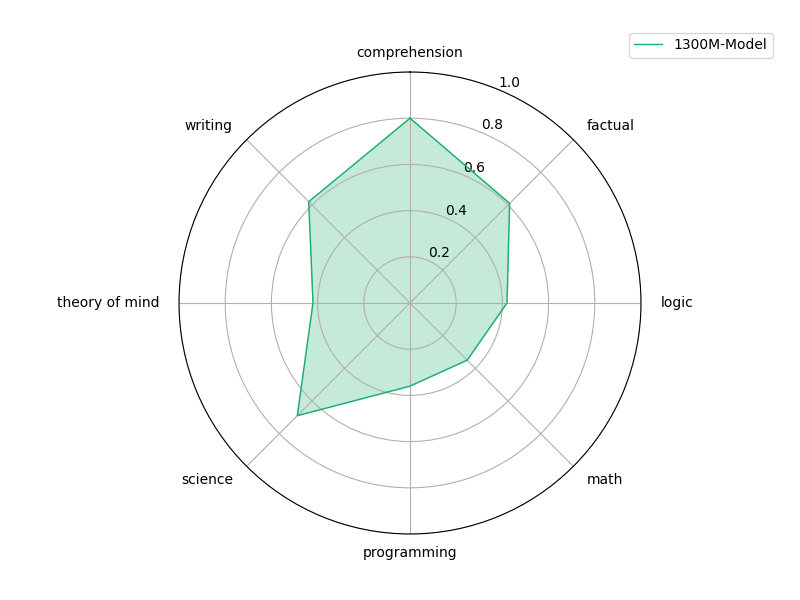
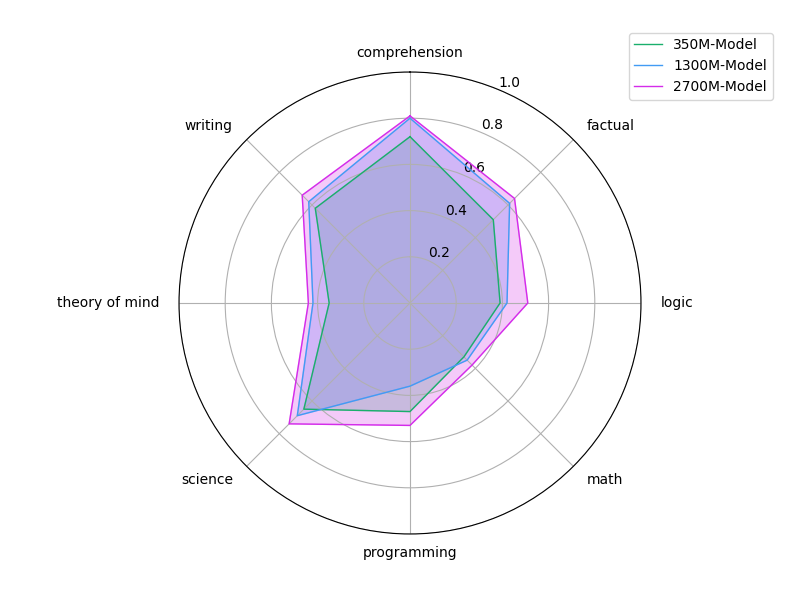
full lab (part 2 benchmark untested)

Changed region(s): [[0.3438, 0.18, 0.6875, 0.72], [0.7812, 0.06, 0.9688, 0.15]]

diff --git a/xtra_labs/llm_finetune/draft.py b/xtra_labs/llm_finetune/draft.py
@@ -1,11 +1,16 @@
 """
 Drafting lab flow in script format using PyTorch
 """
-
+from datasets import load_dataset
+import math
 import numpy as np
 import pandas as pd
 import tensorflow as tf
+import torch
+import torch.nn as nn
+import torch.nn.functional as F
 import transformers
+from trl import SFTTrainer
 
 from utils import run_benchmark, make_spider_plot
 
@@ -63,14 +68,14 @@ category_accs_1300m, avg_acc_1300m = run_benchmark(model, tokenizer, dataset)
 # Benchmark smaller model
 model_name_350m = "facebook/opt-350m" 
 model_350m = transformers.AutoModelForCausalLM.from_pretrained(model_name_350m, device_map="auto")
-tokenizer_350m = transformers.AutoTokenizer.from_pretrained(model_350m)
+tokenizer_350m = transformers.AutoTokenizer.from_pretrained(model_name_350m)
 
 category_accs_350m, avg_acc_350m = run_benchmark(model_350m, tokenizer_350m, dataset)
 
 # Benchmark larger model
 model_name_2700m = "facebook/opt-2.7b" 
 model_2700m = transformers.AutoModelForCausalLM.from_pretrained(model_name_2700m, device_map="auto")
-tokenizer_2700m = transformers.AutoTokenizer.from_pretrained(model_2700m)
+tokenizer_2700m = transformers.AutoTokenizer.from_pretrained(model_name_2700m)
 
 category_accs_2700m, avg_acc_2700m = run_benchmark(model_2700m, tokenizer_2700m, dataset)
 
@@ -81,16 +86,98 @@ make_spider_plot(benchmark_data)
 
 # Part 2
 
+# inspect current model
+print(model)
+
 # new LoRA linear layer class
+class LoRALinear(nn.Linear):
+    def __init__(
+            self, 
+            in_features: int,
+            out_features: int,
+            r: int = 8,
+            lora_alpha: int = 1,
+            **kwargs
+    ):
+        self.r = r
+        self.in_features = in_features
+        self.out_features = out_features
+        self.lora_alpha = lora_alpha
 
-# new attention layer class
+        nn.Linear.__init__(self, in_features, out_features, **kwargs)
 
-# replace attention modules with new module
+        # from https://github.com/microsoft/LoRA/blob/main/loralib/layers.py
+        if r > 0:
+            self.lora_A = nn.Parameter(self.weight.new_zeros((r, in_features)))
+            self.lora_B = nn.Parameter(self.weight.new_zeros((out_features, r)))
+            self.scaling = self.lora_alpha / self.r
+            # Freezing the pre-trained weight matrix
+            self.weight.requires_grad = False
+        self.reset_parameters()
+
+    def reset_parameters(self):
+        # from https://github.com/microsoft/LoRA/blob/main/loralib/layers.py
+        nn.Linear.reset_parameters(self)
+        if hasattr(self, 'lora_A'):
+            # initialize B the same way as the default for nn.Linear and A to zero
+            # this is different than what is described in the paper but should not affect performance
+            nn.init.kaiming_uniform_(self.lora_A, a=math.sqrt(5))
+            nn.init.zeros_(self.lora_B)
+
+    def forward(self, x: torch.Tensor):
+        if self.r > 0:
+            result = F.linear(x, self.weight, bias=self.bias)            
+            result += (x @ self.lora_A.transpose(0, 1) @ self.lora_B.transpose(0, 1)) * self.scaling
+            return result
+        else:
+            return F.linear(x, self.weight, bias=self.bias)
+
+# replace linear layers in model recursively
+def replace_linear_with_lora(module):
+    for name, child in module.named_children():
+        if isinstance(child, nn.Linear):
+            setattr(module, name, LoRALinear(child.in_features, child.out_features))
+        else:
+            replace_linear_with_lora(child)
+
+replace_linear_with_lora(model)
+
+# inspect new model
+print(model)
 
 # load chat dataset
+dataset_name = "timdettmers/openassistant-guanaco"
+ft_dataset = load_dataset(dataset_name, split="train")
 
 # train model
+log_dir = "/scratch/checkpoints/test-sft/opt1.3b_768/"
+batch_size = 4
+context_length = 768
+args = transformers.TrainingArguments(log_dir, 
+    per_device_train_batch_size=batch_size, 
+    logging_first_step=True,
+    logging_steps=20,
+    save_steps=100,
+)
+
+class PrinterCallback(transformers.TrainerCallback):
+    def on_log(self, args, state, control, model, logs=None, **kwargs):
+        start_text = "### Human: When the weather is sunny, what color is the sky?### Assistant:"
+        generate(start_text, model, tokenizer, num_steps=200, until="###")
+
+trainer = SFTTrainer(
+    model,
+    args=args,
+    train_dataset=ft_dataset,
+    dataset_text_field="text",
+    max_seq_length=context_length,
+    callbacks=[PrinterCallback()]
+)
+trainer.train()
 
 # evaluate finetuned model on benchmark
+category_accs_1300m_ft, avg_acc_1300m_ft = run_benchmark(model, tokenizer, dataset)
 
 # add to spider plot 
+benchmark_data = {"350M-Model": category_accs_350m, "1300M-Model": category_accs_1300m, "1300M-Model-Finetuned": category_accs_1300m_ft, "2700M-Model": category_accs_2700m}
+make_spider_plot(benchmark_data)

diff --git a/xtra_labs/llm_finetune/utils.py b/xtra_labs/llm_finetune/utils.py
@@ -66,6 +66,7 @@ def make_spider_plot(data):
     """
     colors = ['#1aaf6c', '#429bf4', '#d42cea']
     i = 0
+    fig, ax = plt.subplots(figsize=(8,6), subplot_kw=dict(polar=True))
     for k,v in data.items():
         labels = v.index.tolist()
         values = v.values.tolist()
@@ -74,8 +75,6 @@ def make_spider_plot(data):
         angles = np.linspace(0, 2 * np.pi, num_vars, endpoint=False).tolist()
         angles += angles[:1]
         values += values[:1]
-
-        fig, ax = plt.subplots(figsize=(8,6), subplot_kw=dict(polar=True))
         
         ax.plot(angles, values, color=colors[i], linewidth=1, label=k)
         ax.fill(angles, values, color=colors[i], alpha=0.25)
